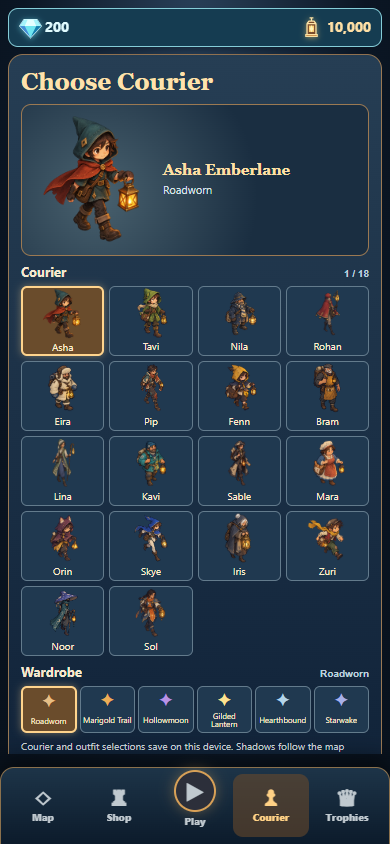
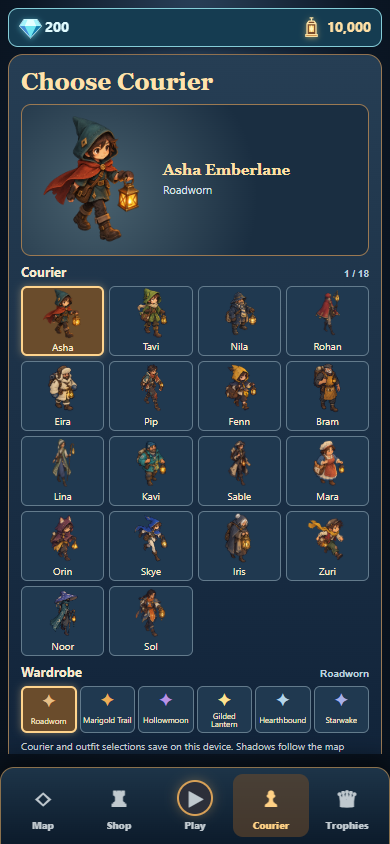
Align Play tab with bottom navigation

diff --git a/game/shell.css b/game/shell.css
@@ -57,10 +57,10 @@ body{background:radial-gradient(ellipse at 50% -8%,#29415a,#0b1624 62%,#08111c)}
 .button.primary,.overlayActions .primary,.menuActions .primary{background:linear-gradient(#ffe0a2,#dfa04d);color:#332316;border-color:#ffdd99}
 #bottomNav{display:none!important}
 #integratedNav{position:fixed;z-index:65;left:0;right:0;bottom:0;display:grid;grid-template-columns:repeat(5,minmax(0,1fr));max-width:430px;margin:auto;padding:6px 4px calc(7px + env(safe-area-inset-bottom));height:80px;background:linear-gradient(#1d3448,#0c1b2b);border:1px solid #8b714d;border-bottom:0;border-radius:14px 14px 0 0;box-shadow:0 -8px 22px #0008}
-#integratedNav button{border:0;background:transparent;color:#c0c9cf;display:grid;place-items:center;gap:2px;align-content:center;min-width:0;border-radius:10px;font-size:10px;font-weight:800}
+#integratedNav button{border:0;background:transparent;color:#c0c9cf;display:flex;flex-direction:column;align-items:center;justify-content:center;gap:3px;min-width:0;border-radius:10px;font-size:10px;font-weight:800;line-height:12px}
 #integratedNav button.active{color:#ffd185;background:#6b492a91}
-#integratedNav button span{font-size:22px;line-height:1}
-#integratedNav button[data-destination="play"] span{display:grid;place-items:center;width:42px;height:42px;border:2px solid #d7a057;border-radius:50%;margin-top:-13px;background:#2c2f3a;box-shadow:0 0 14px #d9a45b66}
+#integratedNav button span{display:grid;place-items:center;width:36px;height:36px;font-size:22px;line-height:1}
+#integratedNav button[data-destination="play"] span{width:36px;height:36px;padding-left:2px;border:2px solid #d7a057;border-radius:50%;background:#2c2f3a;box-shadow:0 0 12px #d9a45b66;font-size:19px}
 #integratedOverlay{position:fixed;z-index:90;inset:0;max-width:430px;margin:auto;background:#07111edc;display:grid;place-items:center;padding:18px}
 #integratedOverlay[hidden]{display:none}
 .integratedPanel{width:min(100%,480px);max-height:min(90vh,780px);overflow:auto;border:1px solid #bb925d;border-radius:17px;background:linear-gradient(#263e54,#102238);padding:18px;box-shadow:0 20px 60px #000a;color:#f6e8d0}
